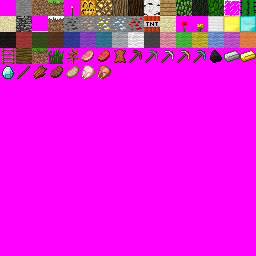
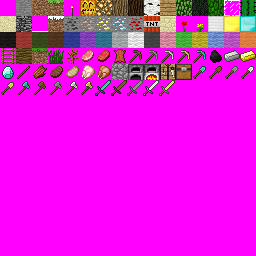
Added more tools.

diff --git a/trunk/MineDS/source/blocks.cpp b/trunk/MineDS/source/blocks.cpp
@@ -12,7 +12,7 @@ int renderBright[]={AIR,LOG,OAK_WOOD,BIRCH_WOOD,LEAF,YELLOW_FLOWER,RED_FLOWER,CA
 int lightSourceBlocks[]={TORCH,PUMPKIN_LIGHT,GLOWSTONE};
 int items[]={PORKCHOP_RAW,BEEF_RAW,LEATHER,PICKAXE_WOOD,PICKAXE_STONE,
 		PICKAXE_IRON,PICKAXE_GOLD,PICKAXE_DIAMOND,COAL,IRON,GOLD,DIAMOND,
-		STICK,FLESH,BEEF_COOKED,PORKCHOP_COOKED,CHICKEN_RAW,CHICKEN_COOKED};
+		STICK,FLESH,BEEF_COOKED,PORKCHOP_COOKED,CHICKEN_RAW,CHICKEN_COOKED, SHOVEL_DIAMOND, SHOVEL_WOOD, SHOVEL_STONE, SHOVEL_IRON, SHOVEL_GOLD, AXE_DIAMOND, AXE_WOODEN,AXE_STONE,AXE_IRON,AXE_GOLD,SWORD_DIAMOND,SWORD_WOOD,SWORD_STONE,SWORD_IRON,SWORD_GOLD};
 int hardness[NUM_BLOCKS]; //Slot is ID number, negative number means tool
 /*
 ----TOOL----

diff --git a/trunk/MineDS/source/blockID.h b/trunk/MineDS/source/blockID.h
@@ -79,3 +79,23 @@
 #define PORKCHOP_COOKED 68
 #define CHICKEN_RAW 69
 #define CHICKEN_COOKED 70
+#define COBBLESTONE 71
+#define FURNACE 72
+#define FURNACE_LIT 73
+#define CRAFTING_TABLE 74
+#define CHEST 75
+#define SHOVEL_DIAMOND 76
+#define SHOVEL_WOOD 77
+#define SHOVEL_STONE 78
+#define SHOVEL_IRON 79
+#define SHOVEL_GOLD 80
+#define AXE_DIAMOND 81
+#define AXE_WOODEN 82
+#define AXE_STONE 83
+#define AXE_IRON 84
+#define AXE_GOLD 85
+#define SWORD_DIAMOND 86
+#define SWORD_WOOD 87
+#define SWORD_STONE 88
+#define SWORD_IRON 89
+#define SWORD_GOLD 90

diff --git a/trunk/MineDS/source/mining.h b/trunk/MineDS/source/mining.h
@@ -1,6 +1,6 @@
 #include "world.h"
 #include <nds.h>
-#define NUM_BLOCKS 70
+#define NUM_BLOCKS 90
 int getSelectedblock();
 void miningUpdate(worldObject* world,int sx,int sy,touchPosition touch, int keys);
 void blocksCanPlace();
